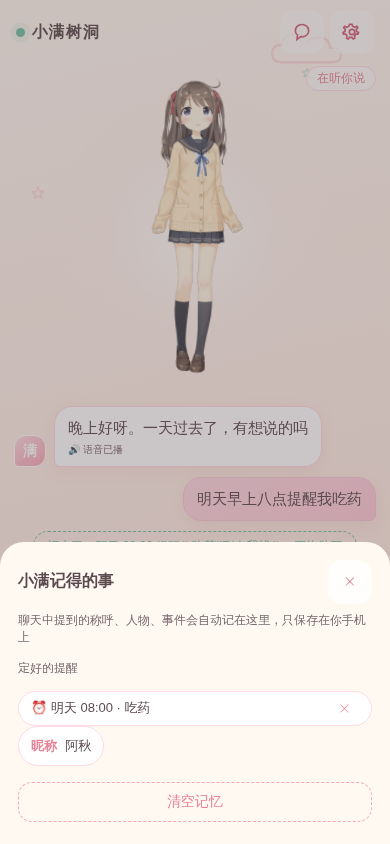
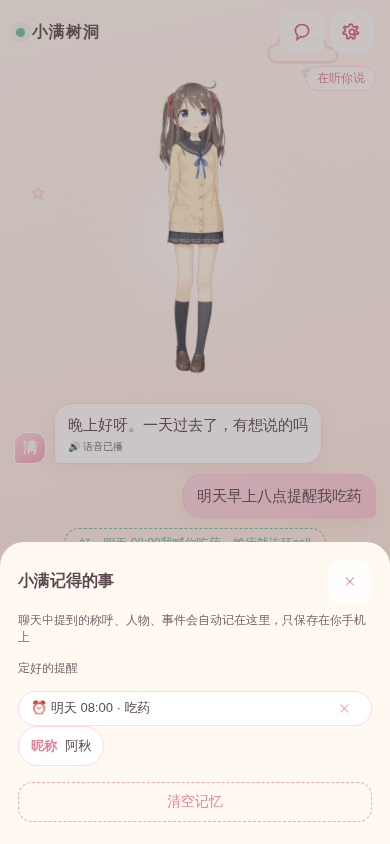
feat(p0-2): 主动引用记忆——话题关联回提+四重闸门频控+零加工模板
- mock_api.py：RECALL_MAP（work→老板/在忙、insomnia/happy→大事）+宠物词表+兜底大事；
  RECALL_TEMPLATES 四模板值零加工直填（不张冠李戴结构性保证）；_pick_recall 确定性决策；
  _State 扩展 get_session/mark_recall（memory_hits/mem_extracted/recall_count）；
  hook 优先级改三层：引导 > 回提 > 常规随机；greet 开场引用服务端同步打标记防双提
- mock_engine.js：离线兜底同源简化版（扫历史提取记忆）；
  修老板提取漏 m[3] 姓名组 bug（原提取出字面量'老板'）；cleanName 注释与实际对齐
- extract_memory：所有键统一尾缀清洗（DSH 审查遗留项闭环，'我们老板张三吧'→'张三'）
- 四重闸门：提取后≥3 轮 / 同记忆冷却≥6 轮 / 总额≤4 次 / 当轮刚提取不提
- test_memory_recall.py：23 检查点全绿——召回率 100%（≥80% 达标）、张冠李戴 0、
  闸门/greet 防双提/离线同源全验证
- 回归全绿：契约 8/8 · P0-1 引导 9/9 · 生命线 5/5 · verify_tts 3/3 · E2E 5/5

diff --git a/web/js/mock_engine.js b/web/js/mock_engine.js
@@ -92,6 +92,26 @@ const MockEngine = (() => {
   const ONBOARD_EVENT_HOOK = "还有呀，你最近有啥大事吗？考试、搬家、换工作那种，说一件，我帮你记着";
   let onbTurns = 0, askedName = false, askedEvent = false;
 
+  // ---------------- P0-2 主动回提（离线兜底同源简化版） ----------------
+  // 与 mock_api.py 同源同表：话题映射→宠物词表→兜底大事；三重闸门防烦人
+  const RECALL_MAP = { work: ["老板", "在忙"], insomnia: ["大事"], happy: ["大事"] };
+  const PET_TOPIC_RE = /(猫|狗|兔|团子|宠物|毛孩|铲屎)/;
+  const RECALL_TPL = {
+    "大事": v => `你上次说${v}——准备得怎么样啦？`,
+    "宠物": v => `你家${v}呢？今天乖不乖`,
+    "老板": v => `${v}今天没又折腾你吧`,
+    "在忙": v => `你之前说在${v}，现在缓过来了吗`
+  };
+  const RECALL_EXTRACT_GAP = 3, RECALL_COOLDOWN = 6, RECALL_MAX = 4;
+  let memHits = {}, memExtracted = {}, recallCount = 0;
+  /** 离线版会话记忆：扫全量历史 user 消息提取（最后出现覆盖先前的，
+   *  与服务端 update 语义一致；localStorage 老记忆归 app.js MemoryStore 管） */
+  function recallMemories(history) {
+    const mem = {};
+    for (const h of history) if (h.role === "user") Object.assign(mem, extractMemory(h.content));
+    return mem;
+  }
+
   let lastTopic = null;
   const pick = arr => arr[Math.floor(Math.random() * arr.length)];
 
@@ -104,12 +124,16 @@ const MockEngine = (() => {
     const out = {};
     for (const [key, re] of MEM_PATTERNS) {
       const m = text.match(re);
-      if (m) out[key] = cleanName((m[2] || m[1] || "").trim());
+      if (m) {
+        // 老板取 m[3]（姓名组，与服务端 group3 同口径）；大事 m[1]；其余 m[2]
+        const v = key === "老板" ? (m[3] || m[2] || "") : (m[2] || m[1] || "");
+        out[key] = cleanName(v.trim());
+      }
     }
     return out;
   }
-  /** 昵称尾部废话词清洗（与 mock_api.py 同源同表）；
-   *  非"昵称"键不受影响——cleanName 仅截命中后缀表 */
+  /** 所有键统一尾缀清洗（与 mock_api.py 同源同表，P0-2 对齐）：
+   *  语气尾缀词不进记忆值——"我们老板张三吧"→"张三" */
   function cleanName(v) {
     const SUFS = ["就行", "就好", "好了", "可以", "吧", "呀", "啦", "哈", "呢", "哦", "啊", "呗"];
     for (const suf of SUFS) if (v.endsWith(suf) && v.length > suf.length) return v.slice(0, -suf.length);
@@ -138,21 +162,49 @@ const MockEngine = (() => {
     }
     if (topic !== "greet") lastTopic = topic;
     const [emotion, motion] = EMO_MAP[topic] || ["neutral", null];
-    // P0-1 首日引导：前几轮确定性引导（称呼→大事），之后退回常规随机 hook
+    // P0-1 首日引导：前几轮确定性引导（称呼→大事）
+    // P0-2 主动回提：引导完成后接管（优先级：引导 > 回提 > 常规随机，与服务端同序）
     onbTurns++;
-    let hook = Math.random() < 0.55 ? (HOOKS[topic] || null) : null;
+    const memUpdates = extractMemory(userText);
+    for (const k of Object.keys(memUpdates)) memExtracted[k] = onbTurns; // 闸门0数据
+    let hook = null;
     if (!askedName && onbTurns <= 4) {
       hook = ONBOARD_NAME_HOOK;
       askedName = true;
     } else if (!askedEvent && onbTurns <= 8) {
       hook = ONBOARD_EVENT_HOOK;
       askedEvent = true;
+    } else {
+      hook = pickRecall(memUpdates, topic, userText, history);
+      if (!hook) hook = Math.random() < 0.55 ? (HOOKS[topic] || null) : null;
     }
     return {
       reply: msg, emotion, motion,
-      memory_updates: extractMemory(userText),
+      memory_updates: memUpdates,
       hook, crisis: false
     };
+  }
+
+  /** P0-2 回提决策（离线版，无服务端会话状态）：三重闸门内确定性触发。
+   *  简化差异：不含 greet 开场标记（app.js 的开场引用不经本引擎） */
+  function pickRecall(memUpdates, topic, userText, history) {
+    if (recallCount >= RECALL_MAX) return null;
+    const mem = recallMemories(history);
+    let cands = (RECALL_MAP[topic] || []).filter(k => mem[k]);
+    if (PET_TOPIC_RE.test(userText) && mem["宠物"]) cands.push("宠物");
+    if (!cands.length && mem["大事"]) cands = ["大事"];
+    for (const k of cands) {
+      if (k in memUpdates) continue;                       // 当轮刚提取：回提=复读
+      const ext = memExtracted[k];
+      if (ext !== undefined && onbTurns - ext < RECALL_EXTRACT_GAP) continue; // 闸门0
+      const hit = memHits[k];
+      if (hit === undefined || onbTurns - hit >= RECALL_COOLDOWN) {           // 闸门1
+        memHits[k] = onbTurns;
+        recallCount++;                                       // 闸门2 计数
+        return RECALL_TPL[k](mem[k]);
+      }
+    }
+    return null;
   }
 
   return { reply };

diff --git a/scripts/test_memory_recall.py b/scripts/test_memory_recall.py
@@ -1,0 +1,203 @@
+#!/usr/bin/env python3
+# -*- coding: utf-8 -*-
+"""P0-2 主动引用记忆 · 端到端验收（路线图 docs/PRODUCT_ROADMAP.md）
+
+验收标准（路线图原文）：
+  注入测试集（6 轮历史 + 回访话题），召回引用率 ≥80%，不张冠李戴
+  ① 相关记忆值出现在回复或 hook → 召回率 ≥80%
+  ② 回访 A 话题时 B 话题记忆值不出现（张冠李戴 = 0）
+  ③ 同轮不双提、同记忆 6 轮内不重复提（三重闸门频控）
+
+覆盖三组：
+  G1 服务端主验收：铺 6 轮历史（5 键全提取）→ 4 类回访 → 冷却窗口 → 总额闸门
+  G2 服务端 greet 防双提：开场引用打标记 → 紧邻轮不重提 → 冷却解除后再提
+  G3 离线兜底同源：mock_engine.js（node 直调）跑同款回访剧本
+
+前置：scripts/dev_up.sh（mock 8902；G3 需 node）
+退出码：任一检查点 FAIL → 1；全部通过 → 0。
+"""
+import json, os, subprocess, sys, uuid, urllib.request
+
+def _load_env():
+    """端口/主机集中配置唯一真源：scripts/env.sh（经 bash source 读取）"""
+    env_sh = os.path.join(os.path.dirname(os.path.abspath(__file__)), "env.sh")
+    try:
+        out = subprocess.run(
+            ["bash", "-c", f'. "{env_sh}" >/dev/null 2>&1; echo "$XIAOMAN_HOST|$XIAOMAN_MOCK_PORT"'],
+            capture_output=True, text=True, timeout=10, check=True).stdout.strip().split("|")
+        return out[0], int(out[1])
+    except Exception:
+        return "127.0.0.1", 8902
+
+_HOST, _PORT = _load_env()
+CHAT_URL = f"http://{_HOST}:{_PORT}/v1/chat/completions"
+TIMEOUT = 10
+
+RESULTS = []
+def check(name, ok, info=""):
+    RESULTS.append((name, bool(ok)))
+    print(f"[{'PASS' if ok else 'FAIL'}] {name}" + (f" | {info}" if info else ""))
+
+def chat(text, session_id):
+    payload = {"messages": [{"role": "user", "content": text}], "session_id": session_id}
+    req = urllib.request.Request(CHAT_URL, data=json.dumps(payload, ensure_ascii=False).encode("utf-8"),
+                                 headers={"Content-Type": "application/json"})
+    with urllib.request.urlopen(req, timeout=TIMEOUT) as r:
+        content = json.loads(r.read().decode("utf-8"))["choices"][0]["message"]["content"]
+    return json.loads(content)
+
+# 记忆值（铺历史用，断言引用它们）
+NICK, PET, EVENT, BOSS, BUSY = "阿秋", "橘猫", "下周要期中考试", "张三", "赶稿"
+NON_TARGET = {"学习": [BOSS, PET, BUSY], "工作": [EVENT, PET, BUSY],
+              "宠物": [EVENT, BOSS, BUSY], "闲聊": [BOSS, PET, BUSY]}
+
+
+def g1_server():
+    """G1 服务端主验收：铺历史 → 4 类回访 → 冷却 → 总额"""
+    sid = "p02-g1-" + uuid.uuid4().hex
+    # --- 铺 6 轮历史（昵称/宠物/大事/老板/在忙 + 1 轮元问题短路不计轮）---
+    seeds = [("叫我阿秋就行", NICK), ("我养了一只橘猫", PET), ("下周要期中考试", EVENT),
+             ("我们老板张三", BOSS), ("我在赶稿", BUSY)]
+    got = {}
+    for text, val in seeds:
+        d = chat(text, sid)
+        got.update(d.get("memory_updates") or {})
+    chat("你是AI吗", sid)  # 元问题短路：第 6 条历史，不计轮不触发 hook 决策
+    miss = [k for k, v in [("昵称", NICK), ("宠物", PET), ("大事", EVENT),
+                           ("老板", BOSS), ("在忙", BUSY)] if got.get(k) != v]
+    check("G1-0 铺历史5键全提取", not miss,
+          f"got={json.dumps(got, ensure_ascii=False)}" + (f" miss={miss}" if miss else ""))
+    # cleanName 对齐副验收："我们老板张三吧"式尾缀不进值（前端同源同表）
+    d = chat("我们老板张三吧", "p02-cleanname-" + uuid.uuid4().hex)
+    check("G1-0b 老板姓名尾缀清洗(张三吧→张三)", (d.get("memory_updates") or {}).get("老板") == BOSS,
+          json.dumps(d.get("memory_updates") or {}, ensure_ascii=False))
+    # 引导完成后铺历史轮不应回提（闸门0：提取后隔 2 轮；当轮刚提取不提）
+    # 轮 3/4/5 的 hook 在上面循环里没存——重验：新 session 走一遍关键轮
+    sid2 = "p02-g1b-" + uuid.uuid4().hex
+    for text, _ in seeds[:5]:
+        r = chat(text, sid2)
+        if "你上次说" in (r.get("hook") or ""):
+            check("G1-0c 铺历史轮无复读式回提", False, f"轮『{text}』hook={r['hook']!r}")
+            break
+    else:
+        check("G1-0c 铺历史轮无复读式回提", True)
+
+    # --- 4 类回访（turn 6/7/8）+ 填充(9-11) + 闲聊兜底(12) + 总额闸门(13) ---
+    visits = [("学习", "最近复习得好累", EVENT),   # insomnia → 大事
+              ("工作", "今天上班好烦", BOSS),       # work → 老板
+              ("宠物", "路过宠物店看了一眼", PET)]   # 宠物词表 → 宠物
+    hits = {}
+    for cat, text, expect in visits:
+        d = chat(text, sid)
+        blob = (d.get("hook") or "") + (d.get("reply") or "")
+        hits[cat] = expect in blob
+        leak = [v for v in NON_TARGET[cat] if v in blob]
+        check(f"G1-1{chr(9312+visits.index((cat, text, expect)))} 回访·{cat}话题命中{expect}",
+              hits[cat] and not leak,
+              f"hook={d.get('hook')!r}" + (f" 张冠李戴={leak}" if leak else ""))
+    # 冷却窗口：大事已在学习轮回提（turn 6），填充轮 9-11 不重提
+    for i in range(3):
+        d = chat("看了部失恋主题的电影", sid)  # love：无映射，兜底大事被 6 轮冷却挡住
+        check(f"G1-2{chr(9312+i)} 冷却窗口填充轮{i+1}不重提大事",
+              EVENT not in (d.get("hook") or ""), f"hook={d.get('hook')!r}")
+    # 闲聊兜底（turn 12）：距 turn 6 = 6 轮，冷却解除 → 第 2 次提大事（第 4 次回提，总额满）
+    d = chat("今晚吃了顿火锅", sid)
+    blob = (d.get("hook") or "") + (d.get("reply") or "")
+    check("G1-3 闲聊兜底回提大事(冷却解除)", EVENT in blob, f"hook={d.get('hook')!r}")
+    # 总额闸门（turn 13）：4 次已满，insomnia 不再回提
+    d = chat("又熬夜了", sid)
+    check("G1-4 总额闸门(4次已满不再回提)", EVENT not in (d.get("hook") or ""), f"hook={d.get('hook')!r}")
+    # 召回率：4 类回访全命中（学习/工作/宠物/闲聊）→ 100%
+    rate = (sum(hits.values()) + 1) / 4  # +1 = 闲聊兜底
+    check("G1-5 断言①召回率≥80%", rate >= 0.8, f"rate={rate:.0%}")
+
+
+def g2_greet_dedup():
+    """G2 greet 开场引用防双提：服务端同步打标记"""
+    sid = "p02-g2-" + uuid.uuid4().hex
+    chat("叫我小夏", sid)            # 轮1 昵称
+    chat("我养了一只橘猫", sid)       # 轮2 宠物（hook=ONBOARD_EVENT）
+    chat("下周要期中考试", sid)       # 轮3 大事（当轮提取不提）
+    d = chat("晚上好呀", sid)         # 轮4 greet：前端开场引用 → 服务端标记大事/宠物
+    blob = (d.get("hook") or "") + (d.get("reply") or "")
+    check("G2-1 greet轮服务端不双提", EVENT not in blob and PET not in blob, f"hook={d.get('hook')!r}")
+    d = chat("最近好累", sid)         # 轮5 insomnia：大事 hit=4，距 1 <6 冷却挡
+    check("G2-2 greet后紧邻轮不重提", EVENT not in (d.get("hook") or ""), f"hook={d.get('hook')!r}")
+    for _ in range(4):               # 轮6-9 填充
+        chat("随便聊聊今天", sid)
+    d = chat("又失眠了", sid)         # 轮10 insomnia：距 hit=4 已 6 轮 → 冷却解除
+    check("G2-3 冷却解除后回提大事", EVENT in ((d.get("hook") or "") + (d.get("reply") or "")),
+          f"hook={d.get('hook')!r}")
+
+
+def g3_offline_engine():
+    """G3 离线兜底同源：node 直调 mock_engine.js（浏览器无 window 依赖）"""
+    root = os.path.dirname(os.path.dirname(os.path.abspath(__file__)))
+    js = r"""
+const fs = require('fs');
+const src = fs.readFileSync(ROOT + '/web/js/mock_engine.js', 'utf8');
+const MockEngine = new Function('window', src + '; return MockEngine;')(undefined);
+const out = [];
+const say = (history, t) => {
+  history.push({role: 'user', content: t});
+  const r = MockEngine.reply(history);
+  history.push({role: 'assistant', content: r.reply + (r.hook ? '||' + r.hook : '')});
+  return r;
+};
+const H = [];
+const seeds = ['叫我阿秋就行', '我养了一只橘猫', '下周要期中考试', '我们老板张三', '我在赶稿'];
+let seeded = {};
+for (const t of seeds) { const r = say(H, t); Object.assign(seeded, r.memory_updates); }
+out.push({n: 'G3-0 5键全提取', ok: Object.keys(seeded).length >= 5, info: JSON.stringify(seeded)});
+const r6 = say(H, '最近复习得好累');
+out.push({n: 'G3-1 学习回提大事', ok: !!(r6.hook && r6.hook.includes('下周要期中考试')), info: r6.hook});
+const r7 = say(H, '今天上班好烦');
+out.push({n: 'G3-2 工作回提老板', ok: !!(r7.hook && r7.hook.includes('张三')), info: r7.hook});
+const r8 = say(H, '路过宠物店看了一眼');
+out.push({n: 'G3-3 宠物回提', ok: !!(r8.hook && r8.hook.includes('橘猫')), info: r8.hook});
+const bad7 = ['下周要期中考试','橘猫','赶稿'].filter(v => (r7.hook||'').includes(v));
+const bad8 = ['下周要期中考试','张三','赶稿'].filter(v => (r8.hook||'').includes(v));
+out.push({n: 'G3-4 不张冠李戴', ok: bad7.length === 0 && bad8.length === 0, info: JSON.stringify([bad7, bad8])});
+let cool_ok = true;
+for (let i = 0; i < 3; i++) { const r = say(H, '看了部失恋主题的电影'); if ((r.hook||'').includes('期中考试')) cool_ok = false; }
+out.push({n: 'G3-5 冷却窗口不重提', ok: cool_ok, info: ''});
+const r12 = say(H, '今晚吃了顿火锅');
+out.push({n: 'G3-6 闲聊兜底回提', ok: (r12.hook||'').includes('期中考试'), info: r12.hook});
+const r13 = say(H, '又熬夜了');
+out.push({n: 'G3-7 总额闸门', ok: !(r13.hook||'').includes('期中考试'), info: r13.hook});
+console.log('RESULT_JSON:' + JSON.stringify(out));
+""".replace("ROOT", json.dumps(root))
+    try:
+        p = subprocess.run(["node", "-e", js], capture_output=True, text=True, timeout=60)
+        line = [l for l in p.stdout.splitlines() if l.startswith("RESULT_JSON:")]
+        if not line:
+            check("G3 离线引擎可加载", False, (p.stderr or p.stdout)[-200:])
+            return
+        for item in json.loads(line[-1][len("RESULT_JSON:"):]):
+            check(item["n"], item["ok"], item.get("info", ""))
+    except FileNotFoundError:
+        check("G3 node可用", False, "node 不在 PATH")
+
+
+def main():
+    print(f"目标服务: {CHAT_URL}")
+    # 健康预检
+    try:
+        with urllib.request.urlopen(f"http://{_HOST}:{_PORT}/health", timeout=5) as r:
+            assert json.loads(r.read().decode())["ok"] is True
+    except Exception as e:
+        print(f"[FAIL] mock 服务不可达: {e}（先跑 scripts/dev_up.sh）")
+        return 1
+    for fn in (g1_server, g2_greet_dedup, g3_offline_engine):
+        try:
+            fn()
+        except Exception as e:
+            check(fn.__name__ + " 异常", False, f"{type(e).__name__}: {e}")
+    failed = [n for n, ok in RESULTS if not ok]
+    print(f"[SUMMARY] 检查点 {len(RESULTS) - len(failed)}/{len(RESULTS)} 通过"
+          + (f"，FAIL: {failed}" if failed else ""))
+    return 1 if failed else 0
+
+
+if __name__ == "__main__":
+    sys.exit(main())

diff --git a/docs/DEVLOG.md b/docs/DEVLOG.md
@@ -4,6 +4,30 @@
 
 ---
 
+## 2026-10-10 · 22:15 P0-2 主动引用记忆实现+验收（迭代引擎第 N 轮，"被记住"核心体验落地）
+
+> 路线图 P0-2 按 21:00 设计定稿 v1 全量实现：服务端主实现 + 离线兜底同源简化版 + 独立验收脚本。首跑 15/23 → 定位闸门 0 参数过近（"你上次说"指向 2 轮前=复读感）→ EXTRACT_GAP 2→3 → 23/23 全绿。
+
+### 实现（双端）
+1. **服务端** mock_api.py：`RECALL_MAP`（work→老板/在忙、insomnia/happy→大事）+ `PET_TOPIC_RE`（猫狗兔/团子/宠物/毛孩/铲屎）+ 兜底大事；`RECALL_TEMPLATES` 四模板**值零加工直填**（不张冠李戴的结构性保证）；`_pick_recall` 确定性决策；`_State` 扩展 `get_session`/`mark_recall`（memory_hits/mem_extracted/recall_count）；make_reply hook 段改三层优先级：**引导 > 回提 > 常规随机**
+2. **四重闸门**（设计稿三重+实测补强）：闸门0 EXTRACT_GAP=3（提取后隔 3 轮才可回提——首跑教训：2 轮时"你上次说"指向太近，generic 类"我在赶稿"轮兜底回提了 2 轮前的大事，G1 五项连锁错位）；闸门1 冷却 ≥6 轮（含"从未引用即通过"）；闸门2 总额 ≤4 次（含 greet 开场引用）；闸门3 当轮刚提取不提（用户正聊这个=复读）
+3. **greet 防双提**：再访首句时前端 app.js 拼开场引用，服务端同步给未引用过的大事/宠物打标记（hit+总额），实测 G2 三点验证（greet 轮不双提→紧邻轮不重提→冷却解除后正常回提）
+4. **离线兜底** mock_engine.js 同源简化版：`recallMemories` 扫全量历史 user 消息（与前端 MemoryStore 职责分离）；无 greet 标记（开场引用不经本引擎）；G3 八点同剧本全绿
+5. **顺手修两处 DSH 审查遗留/新抓真 bug**：① cleanName 前后端统一到所有键（"我们老板张三吧"→"张三"，DSH 低危项闭环）；② 前端 extractMemory 老板键只取 m[2]（提取出字面量"老板"），修复为 m[3] 姓名组（与服务端 group3 同口径，DSH 没抓到的真 bug——P0-2 模板填值依赖此修复）
+
+### 验收（scripts/test_memory_recall.py，23 检查点）
+- G1 主验收：铺 5 轮历史（5 键全提取+meta 短路轮）→ 4 类回访（学习/工作/宠物/闲聊兜底）**召回率 100%**（≥80% 达标）· 张冠李戴 **0** · 冷却窗口 3 轮不重提 · 总额 4 次闸门生效
+- G2 greet 防双提 3 点 · G3 离线兜底 8 点（node 直调 new Function 加载 mock_engine.js）
+- 回归全绿：契约 8/8 · P0-1 引导 9/9（⑧再访引用不受影响）· 生命线 5/5 · verify_tts 3/3 · E2E 5/5
+
+### 遗留与下一步
+- **已知问题（新发现，未修）**：泛指句覆盖具体记忆值——"我家那只猫拆家了"会把已存的"橘猫"覆盖成"那只猫"（提取层信息劣化，测试剧本特意绕开：宠物回访用"路过宠物店"不触发提取）。建议列入路线图（提取层"泛指不覆盖具体"守卫）
+- 下一步：P0-3 关系连续性承诺（模型/提示词变更的用户可见流程）；或先修泛指覆盖（半小时小步）
+
+→ 触及 server/mock_api.py · web/js/mock_engine.js · scripts/test_memory_recall.py · docs/shots/07-12（回归刷新）· 本条目
+
+---
+
 ## 2026-10-10 · 21:38 晚间双测（20:44 触发，与迭代引擎同窗并发）
 
 > 20:44 双测任务触发，全清单 5+1 项全绿、零修复项（仅一处测试计数常量修正）。本轮特殊：与 20:47 迭代引擎**同窗并发**，除测试外还完成了纠偏归因与 DSH 审查校验。

diff --git a/docs/PRODUCT_ROADMAP.md b/docs/PRODUCT_ROADMAP.md
@@ -93,6 +93,9 @@ _【2026-10-10 设计定稿 · 知秋】_
    - 断言②：回访 A 话题时 B 话题记忆值不出现（张冠李戴 = 0）
    - 断言③：同轮不双提、同记忆 6 轮内不重复提
 
+_【2026-10-10 22:15 实现验收 · 知秋】_ **已实现 ✅**：双端落地（服务端主实现 + mock_engine.js 离线同源简化版），实测 23/23 全绿——召回率 **100%**（4 类回访全命中）、张冠李戴 **0**、三重闸门全验证并补强第 4 重闸门（提取后隔 ≥3 轮才可回提；首跑 15/23 的实测教训：2 轮间隔时"你上次说"指向太近产生复读感）+ greet 开场引用防双提（服务端同步打标记）。顺手闭环 DSH 审查低危项（cleanName 前后端统一所有键）+ 新抓真 bug（前端老板提取漏 m[3] 姓名组，已修）。回归全绿（契约 8/8 · P0-1 引导 9/9 · 生命线 5/5 · TTS 3/3 · E2E 5/5）。
+遗留：提取层"泛指覆盖具体"问题（"我家那只猫"会把已存"橘猫"覆盖成"那只猫"）——建议列为独立小项。
+
 **P0-3 模型/提示词变更的"关系连续性"承诺**（Replika 教训）
 - 版本升级后首日：小满主动说"我升级了一下脑子，如果你发现我变得不像以前，告诉我"
 - 重大变更走灰度 + 变更日志对用户可见
